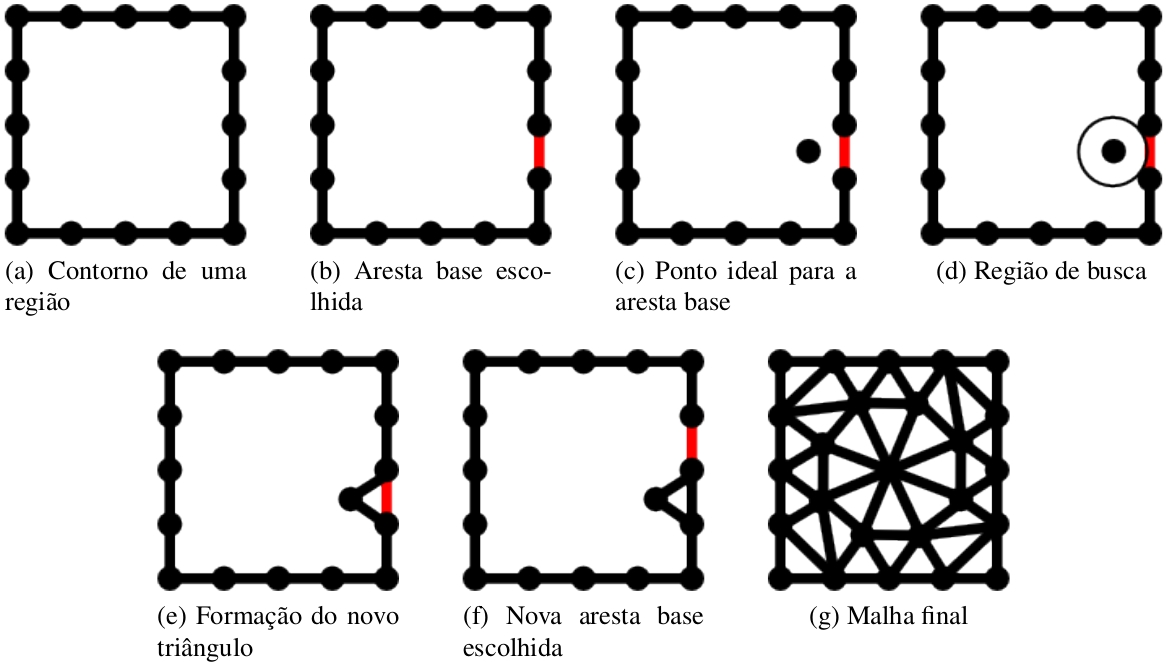
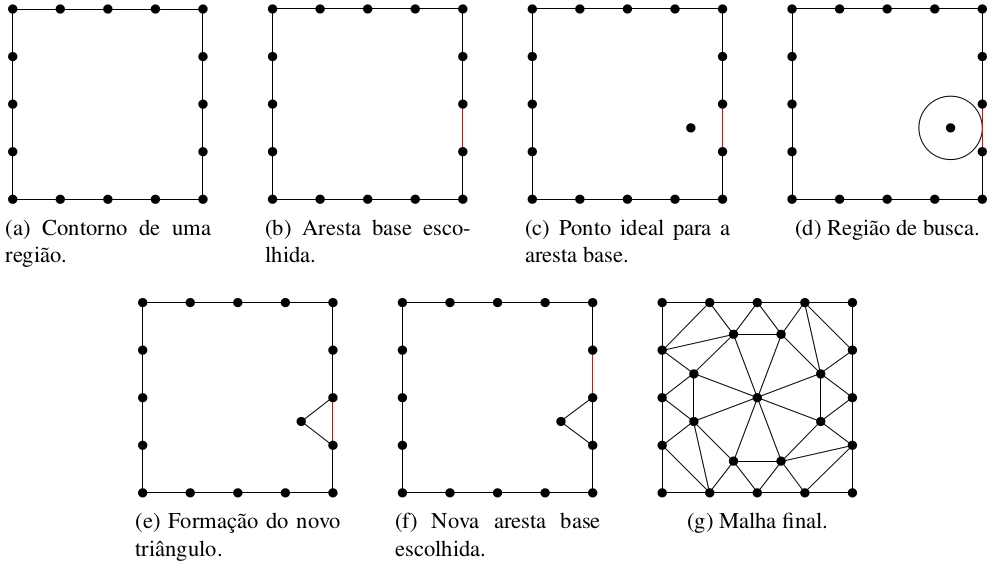
Avan?o de fronteira escrito.

diff --git a/cap3.tex b/cap3.tex
@@ -4,21 +4,27 @@
 
 \chapter{Geração de Malhas}\label{cap3}
 
-Nesse capítulo, serão apresentadas técnicas de geração de malhas bidimensionais, algumas sequenciais, outras em paralelo. As técnicas aqui discutidas enquadram-se em três categorias:
+Nesse capítulo, serão apresentadas as técnicas de geração de malhas bidimensionais mais conhecidas atualmente. Existem diversos algoritmos para geração de malhas, porém todos eles podem ser enquadrados em três categorias que iremmos descrever a seguir:
 
 \begin{itemize}
-  \item Avanço de fronteira, onde a malha deve ser criada a partir da entrada que forma o contorno da região;
+  \item Avanço de fronteira: a malha deve ser gerada a partir da borda da região;
 
-  \item Delaunay, onde tenta-se maximizar o menor ângulo dos triângulos gerados para um dado conjunto de pontos;
+  \item Delaunay: procura-se maximizar o menor ângulo dos triângulos gerados para um dado conjunto de pontos;
 
-  \item Arbitrária, que são os outros tipos de malhas;
+  \item Arbitrária: para todos os outros tipos de malhas;
 \end{itemize}
 
 \section{Avanço de fronteira}
 
-Os algoritmos de avanço de fronteira partem de um contorno especificado da região a ser preenchida (fig.~\ref{fig:imagem7}a). Este contorno é chamado de fronteira inicial ou borda, os elementos são gerados por vez a partir dessa fronteira. A medida que os polígonos são gerados, a fronteira é atualizada, sempre removendo ou adicionando elementos de fronteira. O algoritmo termina quando não há mais fronteira, indicando que a região foi totalmente preenchida, ou quando não é possível gerar mais nenhum elemento mesmo com fronteira, indicando que o algoritmo falhou.
+Este é um dos métodos mais populares de geração de malhas e consiste em criar os elementos no interior do domínio progressivamente a partir de um contorno especificando da região a ser preenchida (fig.~\ref{fig:imagem7}a). Este contorno é chamado de fronteira inicial ou borda, os elementos são gerados a partir dessa fronteira dada como entrada. Uma fronteira bidimensional é formada por um conjunto de arestas.
 
-Uma fronteira bidimensional é formada por um conjunto de arestas. Essa técnica geralmente faz uso de pontos de Steiner, ou seja, insere novos pontos, que não pertencem à entrada, esse pontos criados irão pertencer aos elementos gerados. Um algoritmo nessa categoria procede da seguinte forma, no caso 2D triangular (fig.~\ref{fig:imagem7}b), enquanto houver arestas na fronteira:
+À medida em que o algoritmo progride, a fronteira avança em direção ao interior, sempre removendo ou adicionando elementos de fronteira até que todo o domínio seja preenchido. O algoritmo chega ao fim quando não há mais fronteira, ou seja, o domínio foi totalmente triangularizado. 
+
+Pode ocorrer do algoritmo não conseguir mais gerar elementos para uma determinada fronteira, isso indica que o algoritmo falhou. O caso de falha ocorre quando todos os possíveis elementos a serem criados se sobrepõe um elemento já existente. Por a importancia de verificar se um elemento criado não sobrepõe um elemento já existente. Os casos de falha geralmente acontecem em modelos tridimensionais.
+
+Para gerar os novos triângulo no interior do domínio é necessário criar novo pontos que não pertencem à entrada, em geral é utilizados os pontos de Steiner para isso.
+
+Enquanto houver arestas na fronteira um algoritmo nessa categoria irá proceded da seguinte forma no caso 2D (fig.~\ref{fig:imagem7}):
  
  \begin{enumerate}
 \item{ Remova uma aresta da fronteira, a aresta base (fig.~\ref{fig:imagem7}b)}
@@ -33,14 +39,10 @@ Uma fronteira bidimensional é formada por um conjunto de arestas. Essa técnica
  \begin{figure}[htbp]
      \centering
      \includegraphics[width=1\textwidth]{imagem7}
-     \caption{Avanço de fronteira.}
+     \caption{Avanço de fronteira. \cite{bib:Freitas10}} 
      \label{fig:imagem7}
  \end{figure}
 
-Os algoritmos de avanço de fronteira têm facilidade em tratar regiões descontínuas, ou por conterem buracos, ou por serem regiões separadas, uma vez que a fronteira é sempre respeitada. Além disso, os elementos próximos à fronteira são, geralmente, de boa qualidade, provendo estabilidade e precisão na aplicação de métodos numéricos (como os métodos dos elementos finitos) sobre a malha gerada.
+ Pelo fato da fronteira ser sempre respeitada, os algoritmos de avanço de fronteira têm facilidade em tratar regiões descontínuas, ou por conterem buracos, ou por serem regiões separadas. Como os elementos mais próximos da borda são gerados primeiro, eles irão ter em geral uma boa qualidade. A boa qualidade da malha gerada provem estabilidade e precisão na aplicação de métodos numéricos (como os métodos dos elementos finitos).
 
-Entretanto, em alguns casos os elementos mais internos à malha nem sempre são de boa qualidade, pois a região torna-se menor a medida que a fronteira avança. Para tratar esses casos, geralmente uma técnica de suavização ou otimização é aplicada na malha resultante do algoritmo. Existem, ainda, alguns casos onde o algoritmo falha em gerar a malha, geralmente em casos tridimensionais.
-
-
-
-
+Porém, nem sempre todos os elementos gerados terão boa qualidade. Ao contrário dos elementos mais próximos da borda, os elementos mais internos à malha nem sempre teão boa qualidade devido à região torna-se menor a medida que a fronteira avança. Geralmente uma técnica de suavização ou otimização é aplicada na malha resultante do algoritmo para tratar esses casos.

diff --git a/cap1.tex b/cap1.tex
@@ -18,7 +18,7 @@ A segunda etapa seria a geração da malha em cada um dos novos domínios. Qualq
 
 Para esse trabalho estou propondo uma técnica de geração de malha por avanço de fronteira por particionamento do domínio em paralelo. O foco da técnica é a subdivisão dos domínios e não a geração da malha. O algoritmo de avanço de fronteira que utilizamos para gerar malha está em \cite{bib:Miranda99} e \cite{bib:Cavalcante-Neto01}.
 
-O restante deste trabalho está dividido em quatro seções. No capítulo seguinte faz uma apresentação do que se tem feito atualmente na área de subdivisão de domínios e lá mostraremos mais do método que estamos propondo. O capítulo 3 descreve o que são triangulações as técnicas para geração das mesmas. Finalmente, no capítulo 4 vamos definir a linha de estudo além do cronograma do trabalho.
+O restante deste trabalho está dividido em quatro seções. No capítulo seguinte faz uma apresentação do que se tem feito atualmente na área de subdivisão de domínios e lá mostraremos mais do método que estamos propondo. O capítulo 3 descreve os algoritmos existentes para geração de malhas bidimensionais, mais precisamente triangulações. Finalmente, no capítulo 4 vamos definir a linha de estudo além do cronograma do trabalho.
 
 %\section{Incluindo citações}\label{intro:historico}
 
